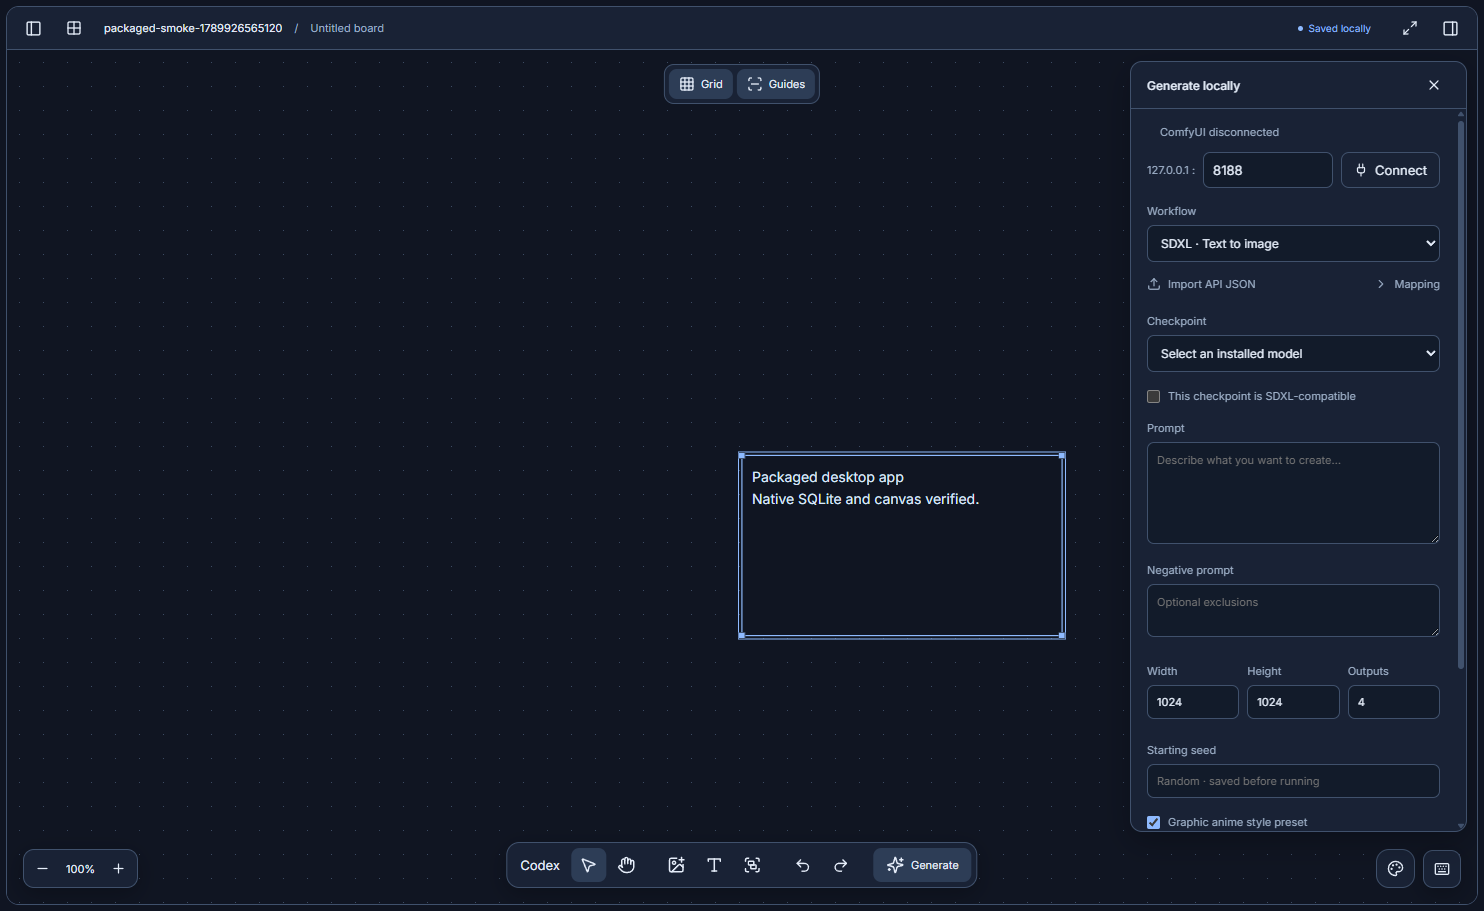
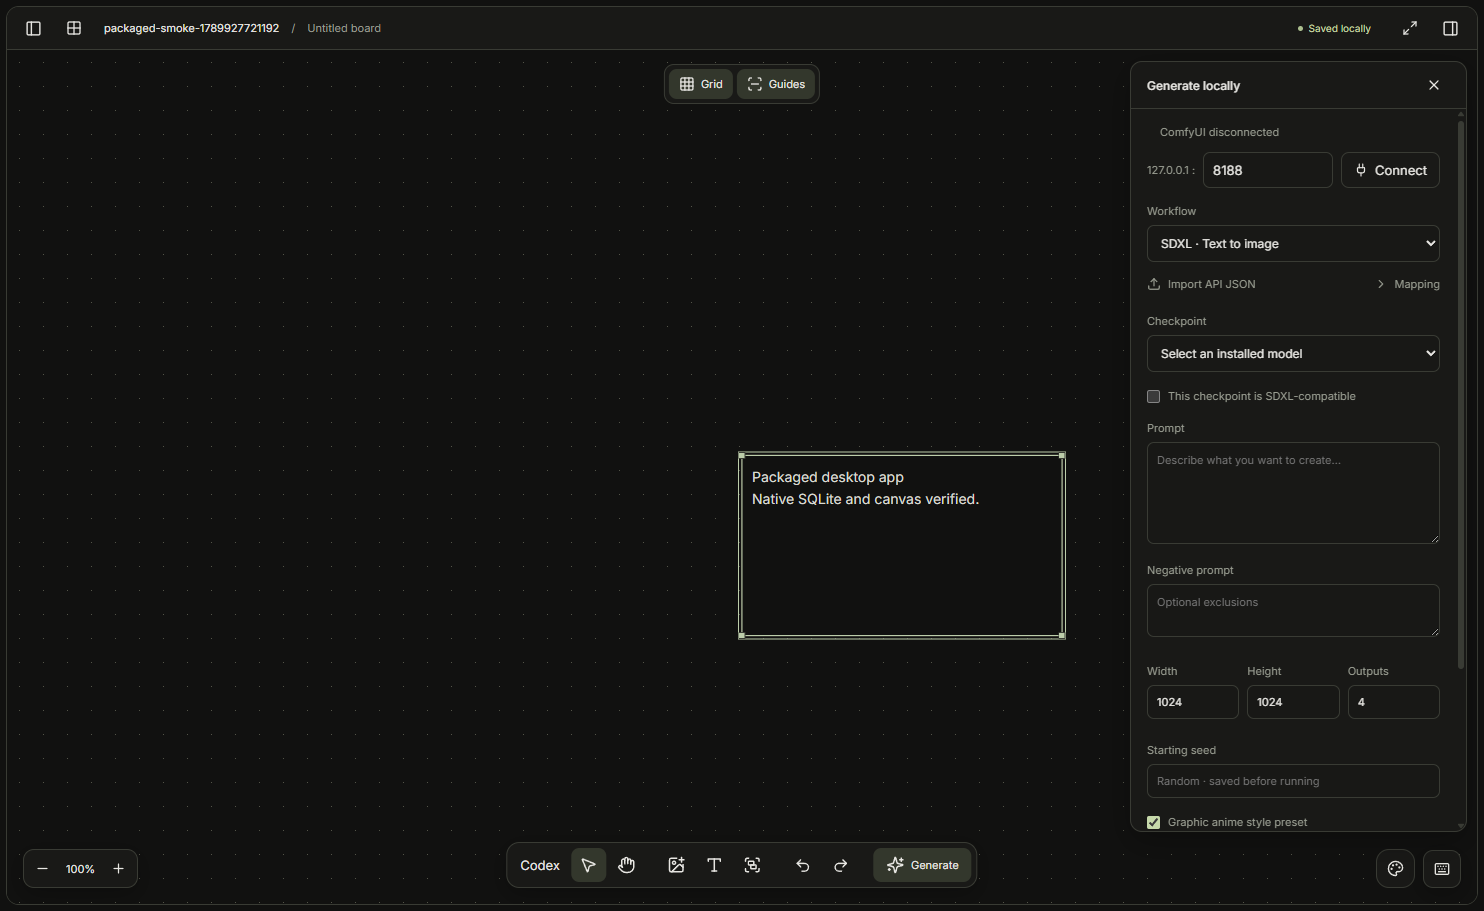
Remove private project naming from public materials

diff --git a/docs/verification.md b/docs/verification.md
@@ -2,9 +2,9 @@
 
 GitHub release preparation: all 41 unit tests and all 18 Electron desktop scenarios passed in one full run. The browser integration check passed against the real hidden Electron backend, covering project creation, saving/reopening, binary image import, image serving, recent projects, and RPC errors. TypeScript checking and the production build passed.
 
[2 lines of base64/hex data omitted]
 
-The README includes four user-supplied screenshots with descriptions of board organization, local generation setup, grouped character variants, and image actions. Those example images are documentation, not generation-test evidence. Real ComfyUI inference and authenticated Codex imagegen remain unverified as described below.
+The README includes three user-supplied artwork screenshots and one synthetic test screenshot with descriptions of board organization, local generation setup, grouped character variants, and image actions. Those example images are documentation, not generation-test evidence. Real ComfyUI inference and authenticated Codex imagegen remain unverified as described below.
 
 # Version 0.3.4 - 2026-09-15
 

diff --git a/README.md b/README.md
@@ -29,7 +29,7 @@ The lockfile pins dependencies. Native SQLite is rebuilt for Electron during `np
 
 ## Screenshots and example workflows
 
-These user-supplied screenshots show example artwork and workspace arrangements. Some show earlier interface labels; they illustrate workflows rather than prove that a generation job ran in this release. The artwork and example project are not bundled with the installer.
+These screenshots show example artwork, workspace arrangements, and a synthetic test workspace. Some show earlier interface labels; they illustrate workflows rather than prove that a generation job ran in this release. The artwork and example project are not bundled with the installer.
 
 ### Plan a complete creative board
 
@@ -39,9 +39,9 @@ This board overview brings character designs, props, and environment studies int
 
 ### Prepare local image generation
 
-![Desktop workspace showing a character reference, project library, and ComfyUI generation panel](docs/screenshots/workspace.png)
+![Desktop test workspace showing the ComfyUI generation panel](docs/screenshots/workspace.png)
 
-The left drawer holds boards and the project image library; the central canvas provides a large reference view. The right panel exposes the local ComfyUI connection, workflow, checkpoint, prompt, dimensions, output count, seed, and editable style preset. The screenshot shows **ComfyUI disconnected**, so it demonstrates the setup controls, not completed local inference. Start your existing ComfyUI installation and connect before generating.
+The project drawer holds boards and the image library; the central canvas provides space for references. The generation panel exposes the local ComfyUI connection, workflow, checkpoint, prompt, dimensions, output count, seed, and editable style preset. This screenshot uses synthetic test content and demonstrates setup controls, not completed local inference. Start your existing ComfyUI installation and connect before generating.
 
 ### Keep related references together
 

diff --git a/docs/releases/v0.3.5.md b/docs/releases/v0.3.5.md
@@ -1,5 +1,7 @@
 # Local Imagine Workspace 0.3.5
 
+Privacy refresh: the installer was rebuilt with a generic style preset, documentation now uses a generic project path, and a screenshot containing a private project-folder name was replaced. The published source history was sanitized. Download this refreshed installer if you downloaded an earlier copy.
+
 First release published to GenBoard Workspace, collecting the current desktop application and local browser mode.
 
 ## Highlights
@@ -10,7 +12,7 @@ First release published to GenBoard Workspace, collecting the current desktop ap
 - Choose full application themes and customize individual card colors.
 - Mark sensitive canvas items and copy a masked canvas screenshot in the desktop app.
 - Use recent-project navigation, optional Codex chat/imagegen, and an existing local ComfyUI installation.
-- Read illustrated workflow explanations using four supplied screenshots in the README.
+- Read illustrated workflow explanations using three supplied artwork screenshots and one synthetic test screenshot in the README.
 
 ## Download and install
 
